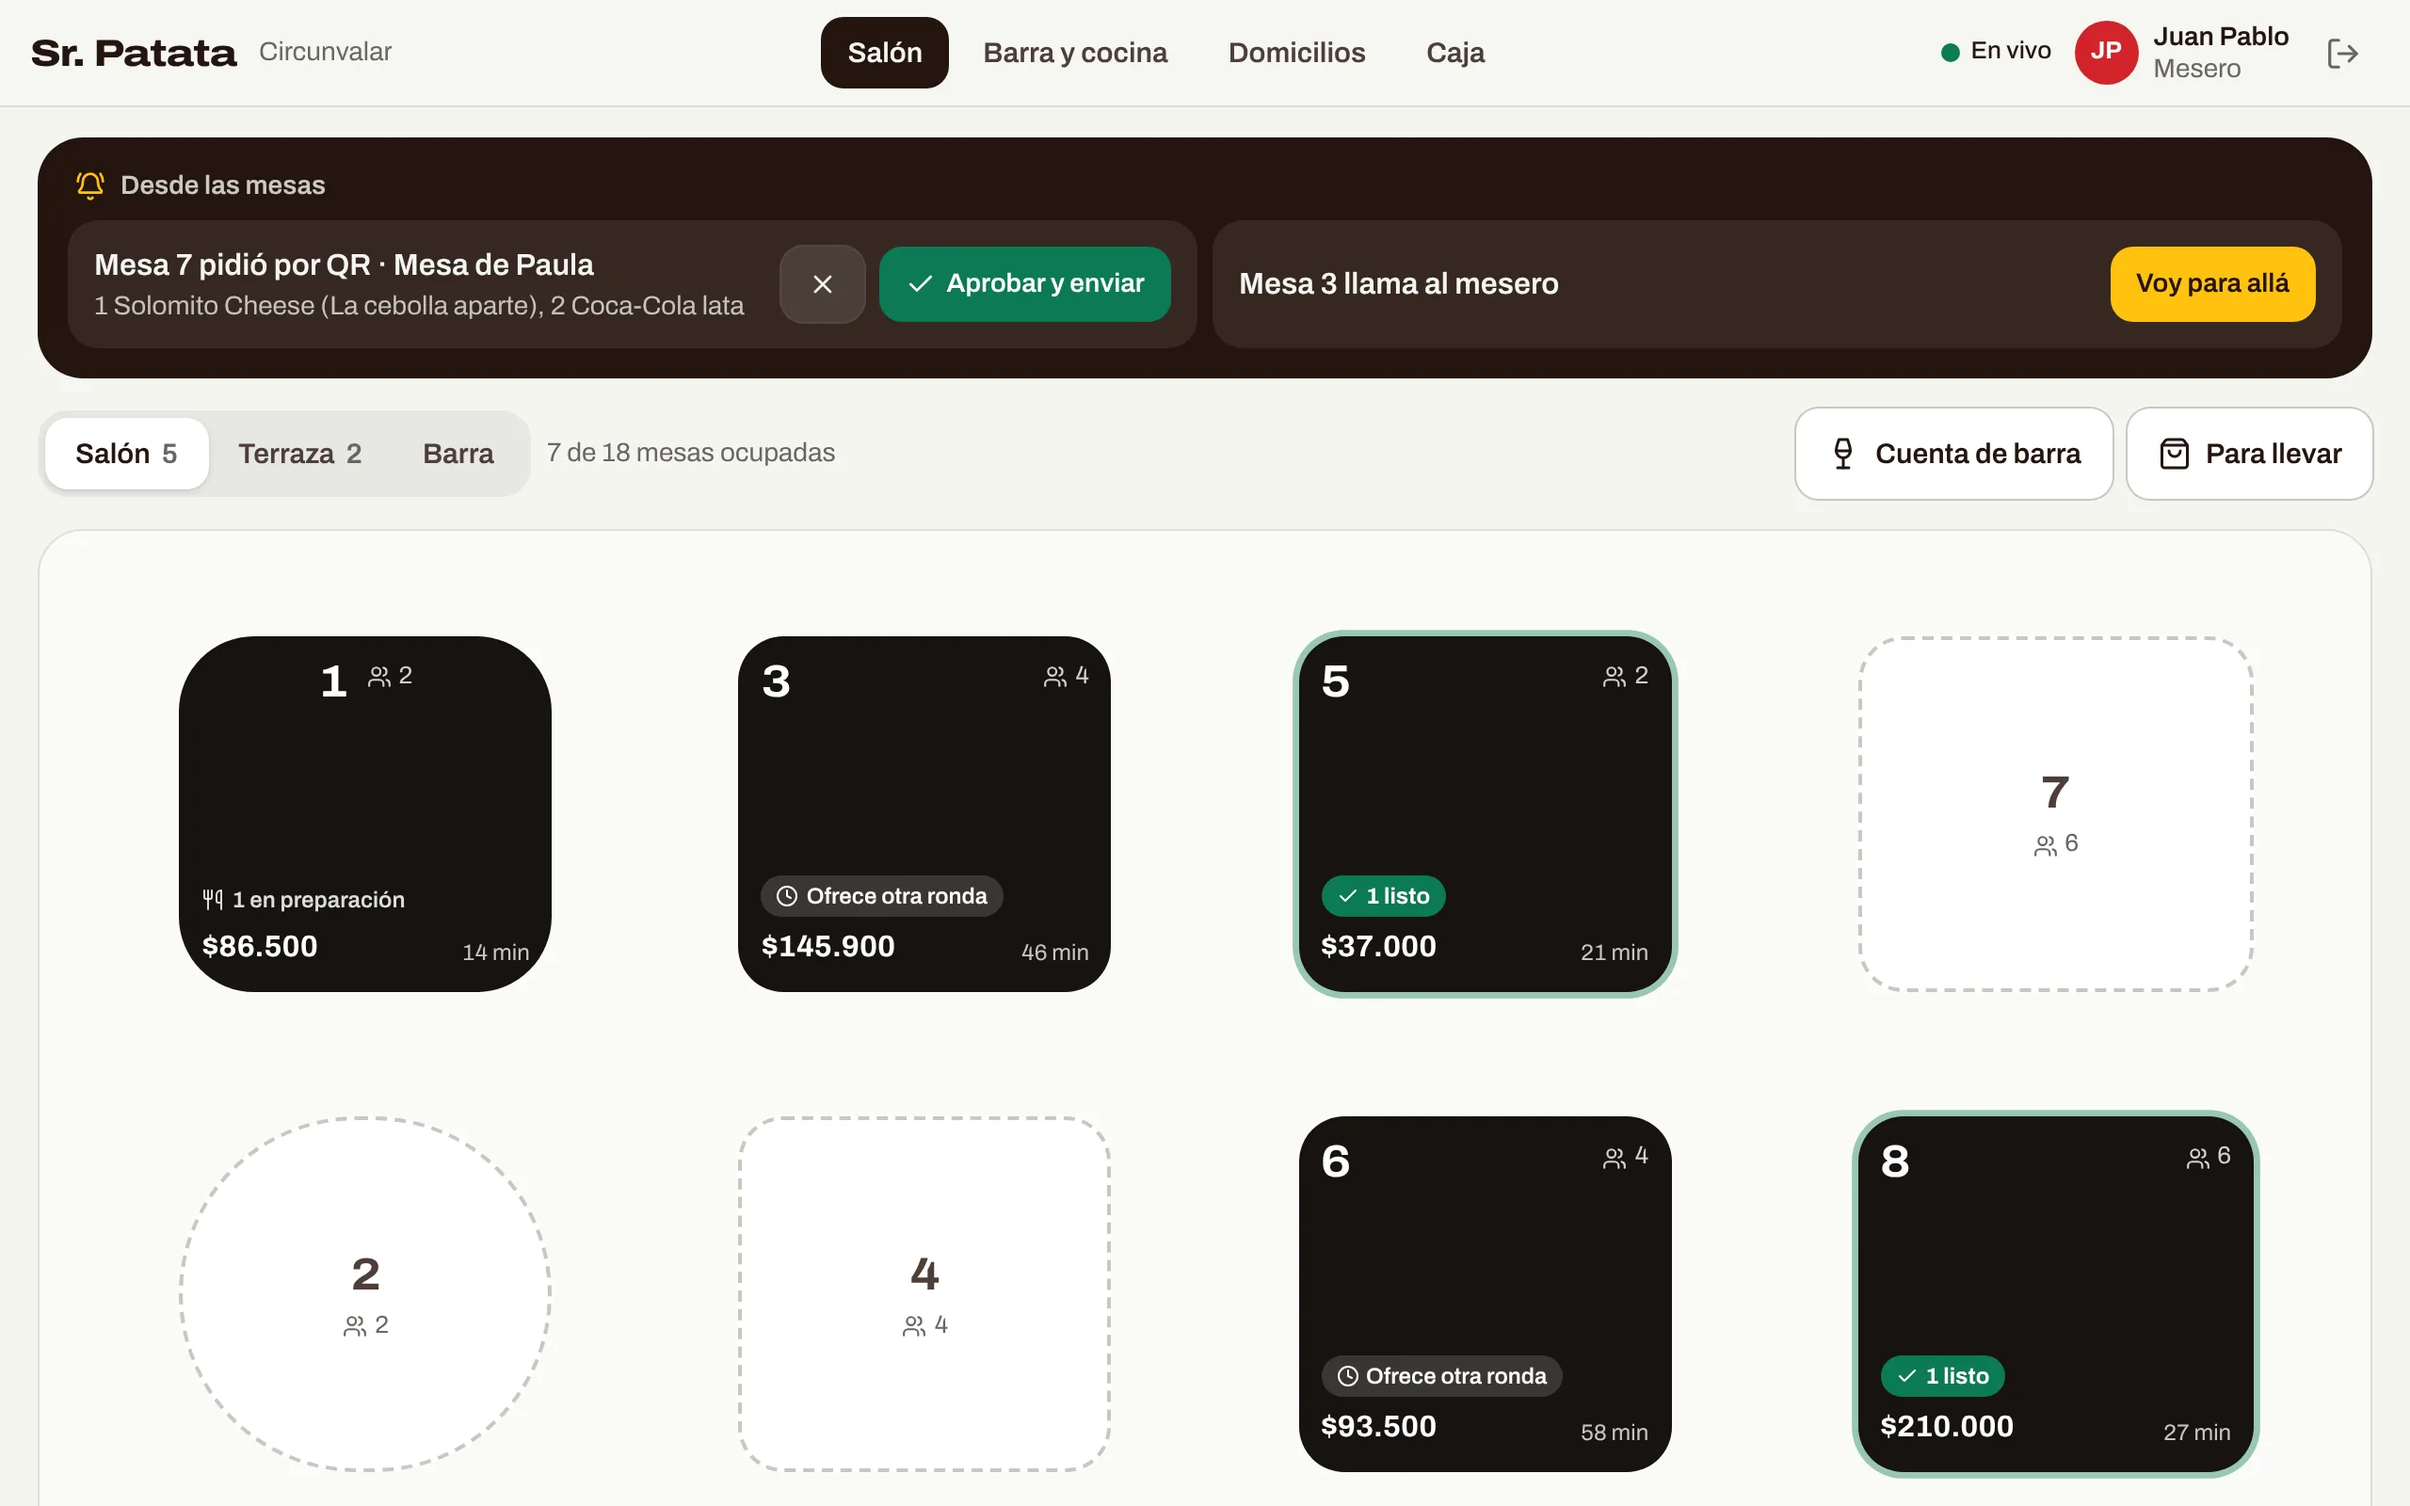
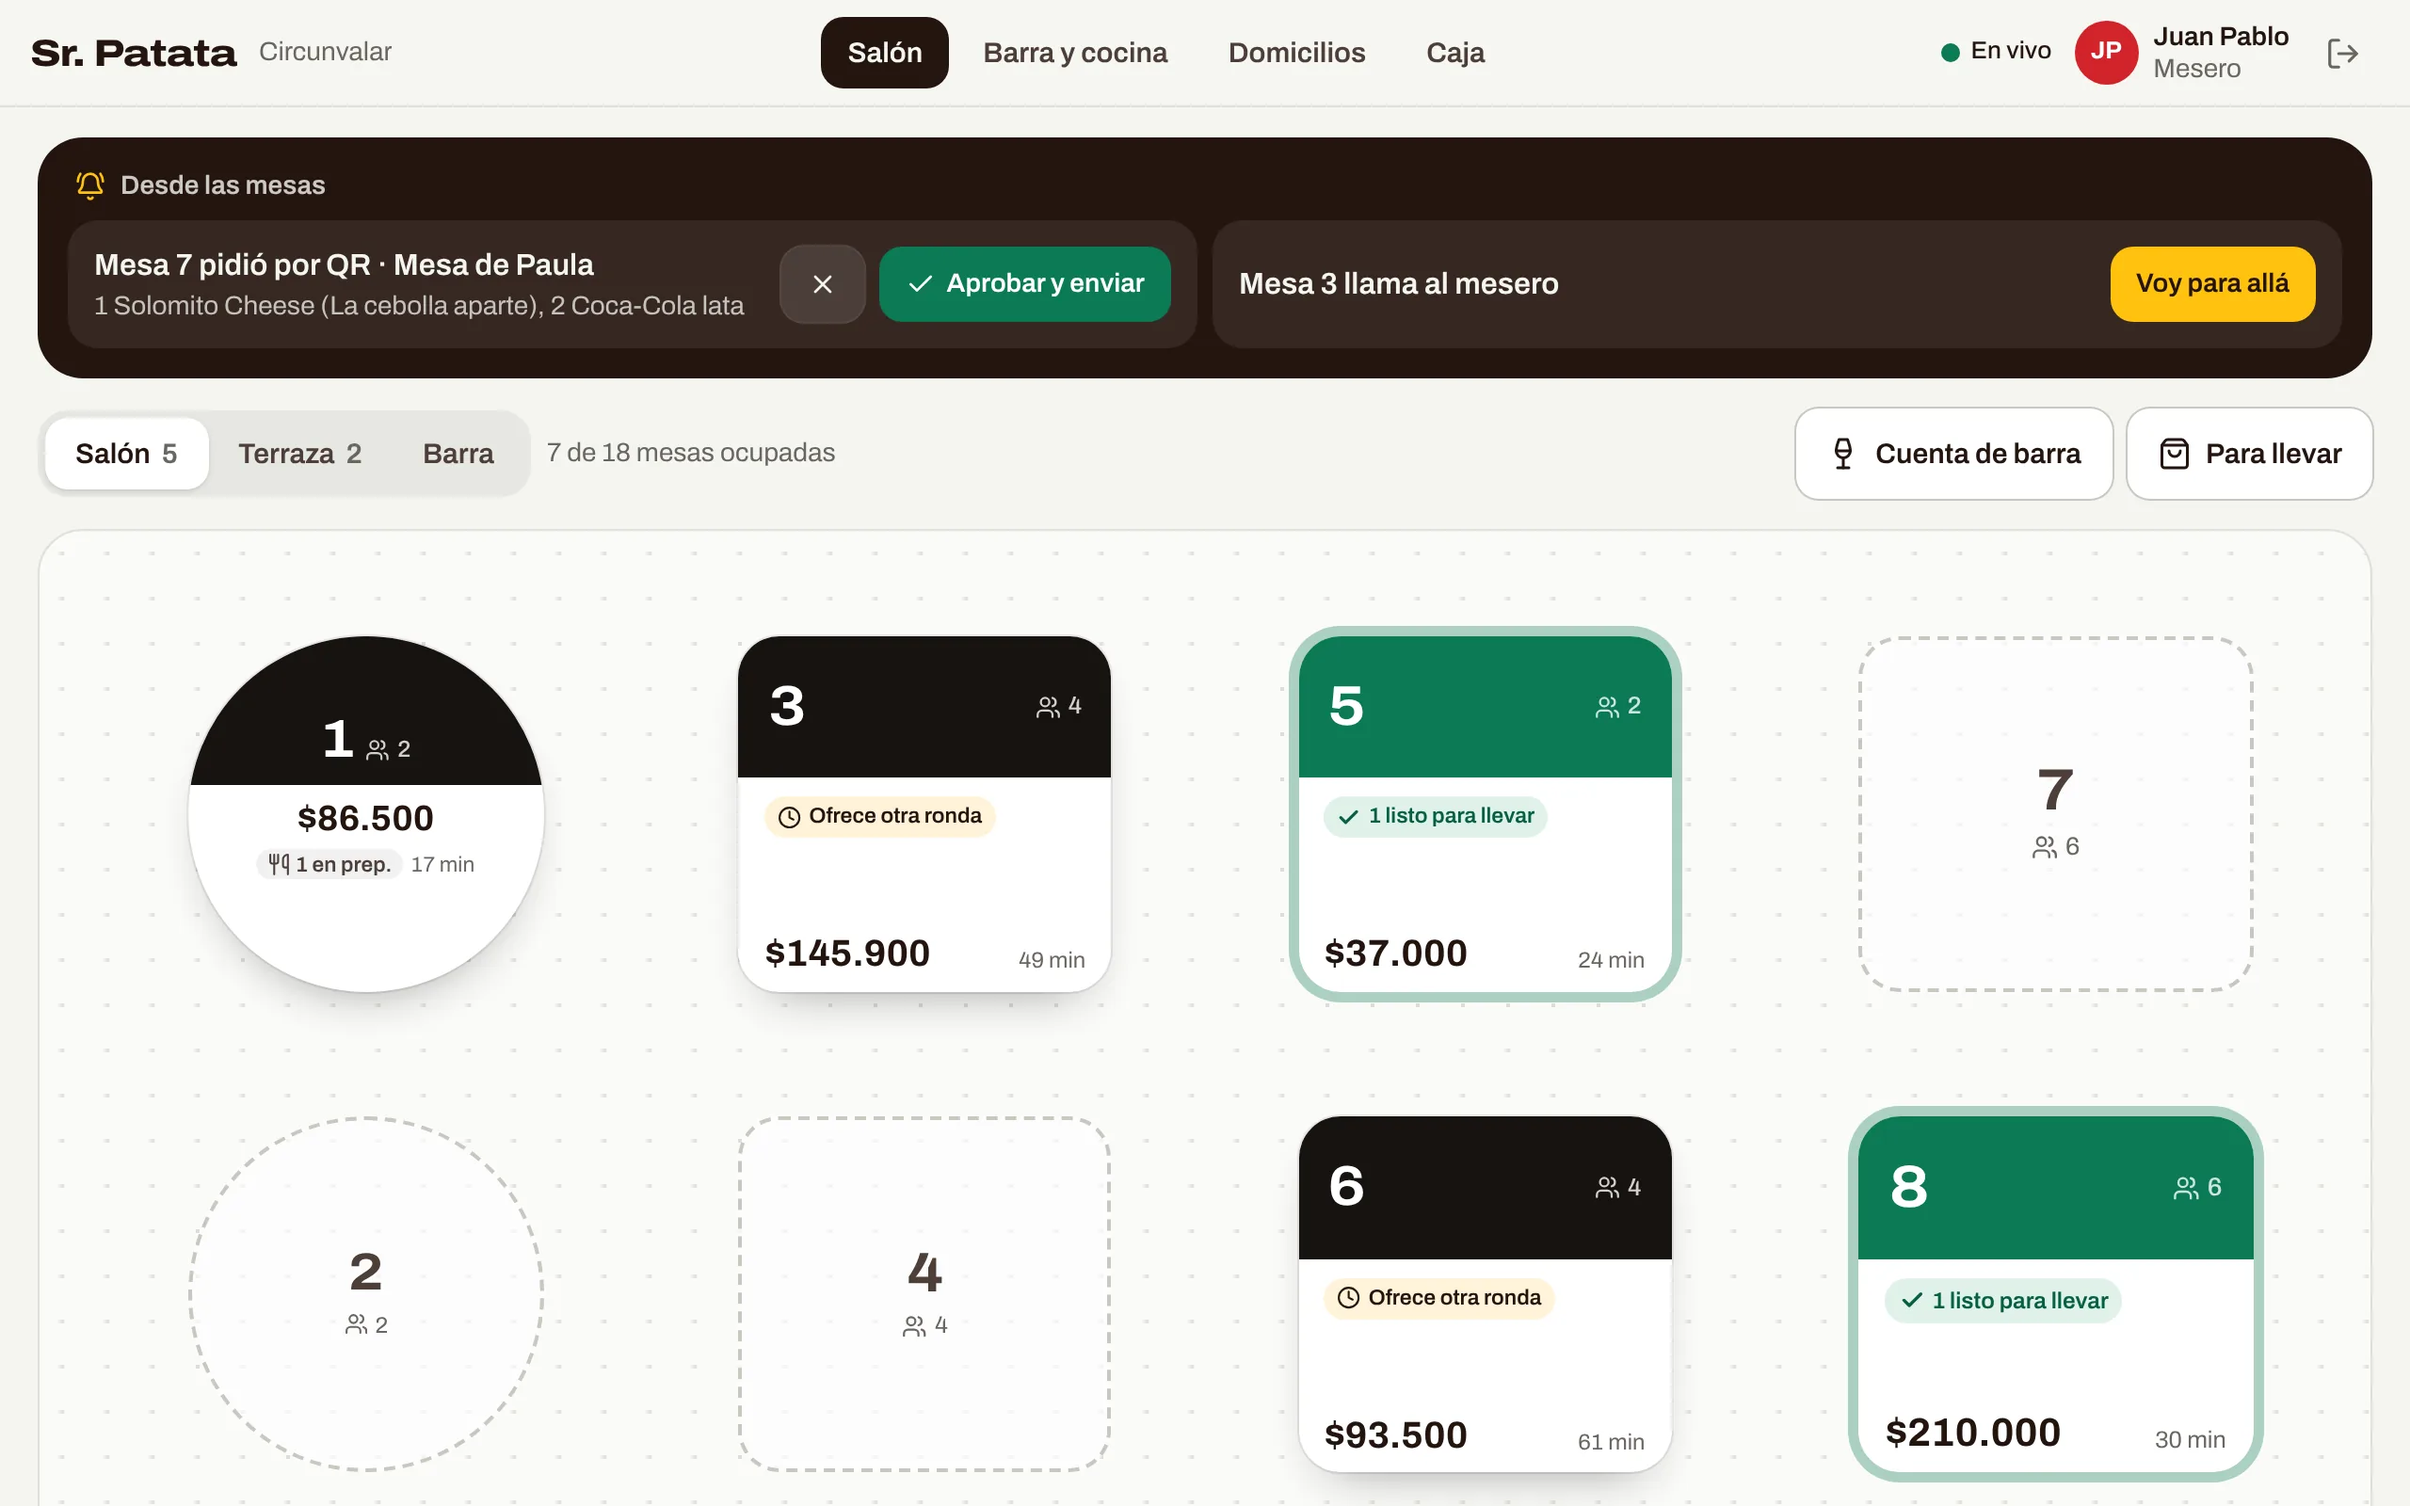
Salón: las mesas ocupadas como comandas en lugar de bloques negros
Cada mesa ocupada es una tarjeta blanca con una franja de estado que se lee de lejos: el color
del local, amarilla si pidió la cuenta y verde si hay algo listo para llevar. El texto crece con
la mesa (unidades del contenedor), así no sobra espacio en pantallas anchas ni se corta en tablets
en vertical. Las mesas redondas quedan redondas, con todo centrado y el estado en corto. Plano con
cuadrícula de puntos y captura del salón de la portada tomada de nuevo.

Claude-Session: https://claude.ai/code/session_01TVsXieNy3EFWDWAhgHViRk

diff --git a/components/salon.tsx b/components/salon.tsx
@@ -81,7 +81,12 @@ export function Salon({ floor }: { floor: Floor }) {
 
       <div className="flex flex-col">
         {/* Plano en tablet y computador; lista en el teléfono */}
-        <div className={cn("relative mt-4 hidden rounded-3xl border border-linea bg-papel/60 sm:block", counter ? "order-2 aspect-[16/4]" : "aspect-[16/7.2]")}>
+        <div
+          className={cn(
+            "relative mt-4 hidden rounded-3xl border border-linea bg-papel/60 bg-[radial-gradient(circle,var(--color-linea)_1.2px,transparent_1.2px)] bg-[size:24px_24px] sm:block",
+            counter ? "order-2 aspect-[16/4]" : "aspect-[16/7.2]",
+          )}
+        >
           {tables.map((t) => (
             <div
               key={t.id}
@@ -93,7 +98,7 @@ export function Salon({ floor }: { floor: Floor }) {
                 height: "34%",
               }}
             >
-              <TableTile table={t} onOpen={() => (setOpening(t), setGuests(Math.min(t.seats, 2)))} />
+              <TableTile plan table={t} onOpen={() => (setOpening(t), setGuests(Math.min(t.seats, 2)))} />
             </div>
           ))}
         </div>
@@ -188,66 +193,92 @@ export function Salon({ floor }: { floor: Floor }) {
   );
 }
 
-function TableTile({ table, onOpen }: { table: TableView; onOpen: () => void }) {
+/**
+ * Una mesa en el plano o en la lista del teléfono. Libre: contorno punteado. Ocupada: tarjeta tipo comanda con una
+ * franja que dice el estado de lejos (color del local; amarilla si pidió la cuenta; verde si hay algo listo para llevar).
+ * El texto crece con la mesa (unidades del contenedor) para que no sobre espacio en pantallas grandes ni falte en tablets.
+ */
+function TableTile({ table, onOpen, plan = false }: { table: TableView; onOpen: () => void; plan?: boolean }) {
   const c = table.check;
+  const round = plan && table.shape === "round";
+  const shape = round ? "aspect-square h-full max-w-full mx-auto rounded-full" : "h-full w-full rounded-[22px]";
   if (!c)
     return (
       <button
         onClick={onOpen}
         className={cn(
-          "flex h-full w-full flex-col items-center justify-center border-2 border-dashed border-linea-2 bg-papel text-tinto-2 transition hover:border-tinto hover:text-tinto",
-          table.shape === "round" ? "rounded-[999px]" : "rounded-3xl",
+          "@container flex flex-col items-center justify-center gap-1 border-2 border-dashed border-linea-2 bg-papel/60 text-tinto-2 transition hover:border-balcon hover:bg-papel hover:text-tinto",
+          shape,
         )}
         aria-label={`Mesa ${table.name} libre, ${table.seats} puestos`}
       >
-        <span className="text-2xl font-bold [font-stretch:110%]">{table.name}</span>
-        <span className="mt-0.5 inline-flex items-center gap-1 text-[13px] text-humo">
-          <Users size={13} /> {table.seats}
+        <span className="text-[clamp(1.2rem,15cqw,2.25rem)] font-bold leading-none [font-stretch:110%]">{table.name}</span>
+        <span className="inline-flex items-center gap-1 text-[clamp(0.72rem,6.5cqw,0.9rem)] text-humo">
+          <Users className="size-[1.05em]" /> {table.seats}
         </span>
       </button>
     );
   const bill = c.status === "bill";
   const idle = !bill && c.minutesIdle >= IDLE_MINUTES && c.inStation === 0;
+  const band = c.ready ? "bg-puerta text-white" : bill ? "bg-fachada text-tinto" : "bg-balcon text-white";
+  const chip = c.ready
+    ? { cls: "bg-puerta-soft text-puerta-2", icon: <Check className="size-[1.1em]" strokeWidth={3} />, long: `${c.ready} listo${c.ready > 1 ? "s" : ""} para llevar`, short: `${c.ready} listo${c.ready > 1 ? "s" : ""}`, count: String(c.ready) }
+    : bill
+      ? { cls: "bg-fachada-soft text-tinto", icon: <Receipt className="size-[1.1em]" />, long: "Pidió la cuenta", short: "Cuenta", count: "" }
+      : idle
+        ? { cls: "bg-fachada-soft text-tinto", icon: <Clock className="size-[1.1em]" />, long: "Ofrece otra ronda", short: "Otra ronda", count: "" }
+        : c.inStation
+          ? { cls: "bg-tinto/6 text-tinto-2", icon: <Utensils className="size-[1.1em]" />, long: `${c.inStation} en preparación`, short: `${c.inStation} en prep.`, count: String(c.inStation) }
+          : null;
   return (
     <Link
       href={`/cuenta/${c.id}`}
       className={cn(
-        "relative flex h-full w-full flex-col justify-between p-3 text-left transition",
-        table.shape === "round" ? "rounded-[40px] items-center text-center" : "rounded-3xl",
-        bill ? "bg-fachada text-tinto" : "bg-balcon text-white hover:bg-balcon-2",
-        c.ready > 0 && "ready-pulse ring-4 ring-puerta",
+        "@container relative flex flex-col overflow-hidden bg-papel text-tinto shadow-[0_12px_28px_-16px_rgba(23,19,16,0.5)] ring-1 ring-black/8 transition hover:-translate-y-0.5",
+        shape,
+        round && "text-center",
+        c.ready > 0 && "ready-pulse ring-2 ring-puerta",
       )}
       aria-label={`Mesa ${table.name}, ${bill ? "pidió la cuenta" : "ocupada"}, ${cop(c.total)}`}
     >
-      <span className={cn("flex w-full items-start gap-1", table.shape === "round" ? "justify-center gap-2.5" : "justify-between")}>
-        <span className="text-2xl font-bold leading-none [font-stretch:110%]">{table.name}</span>
-        <span className={cn("inline-flex items-center gap-1 text-[13px]", bill ? "text-tinto/70" : "text-white/80")}>
-          <Users size={13} /> {c.guests}
+      <span className={cn("flex shrink-0 items-center gap-1.5 px-[8cqw]", band, round ? "h-[42%] items-end justify-center pb-[5cqw]" : "h-[40%] justify-between")}>
+        <span className="text-[clamp(1.2rem,15cqw,2.25rem)] font-bold leading-none [font-stretch:110%]">{table.name}</span>
+        <span className="inline-flex items-center gap-1 text-[clamp(0.72rem,6.5cqw,0.9rem)] font-medium opacity-80">
+          <Users className="size-[1.05em]" /> {c.guests}
         </span>
       </span>
-      <span className="w-full">
-        {c.ready ? (
-          <span className="mb-1 inline-flex items-center gap-1 rounded-full bg-puerta px-2 py-0.5 text-[12px] font-bold text-white">
-            <Check size={12} /> {c.ready} listo{c.ready > 1 ? "s" : ""}
+      {round ? (
+        // En la mesa redonda cabe menos: el total y una línea con el estado en corto y los minutos
+        <span className="flex min-h-0 flex-1 flex-col items-center gap-[3cqw] px-[10cqw] pt-[5cqw]">
+          <Money value={c.total} className="text-[clamp(0.9rem,10cqw,1.45rem)] font-bold leading-none" />
+          <span className="inline-flex items-center gap-1 whitespace-nowrap text-[clamp(0.68rem,6cqw,0.85rem)] leading-none text-humo tnum">
+            {chip ? (
+              <span className={cn("inline-flex items-center gap-0.5 rounded-full px-1.5 py-0.5 font-semibold", chip.cls)} title={chip.long}>
+                {chip.icon}
+                <span className="hidden @min-[11rem]:inline">{chip.short}</span>
+                <span className="@min-[11rem]:hidden">{chip.count}</span>
+              </span>
+            ) : null}
+            {c.minutesOpen} min
           </span>
-        ) : bill ? (
-          <span className="mb-1 inline-flex items-center gap-1 text-[13px] font-bold">
-            <Receipt size={13} /> Pidió la cuenta
-          </span>
-        ) : idle ? (
-          <span className="mb-1 inline-flex items-center gap-1 rounded-full bg-white/15 px-2 py-0.5 text-[12px] font-semibold">
-            <Clock size={12} /> Ofrece otra ronda
-          </span>
-        ) : c.inStation ? (
-          <span className="mb-1 inline-flex items-center gap-1 text-[12px] font-semibold text-white/85">
-            <Utensils size={12} /> {c.inStation} en preparación
-          </span>
-        ) : null}
-        <span className="flex items-end justify-between gap-1">
-          <Money value={c.total} className="text-base font-bold" />
-          <span className={cn("text-[12px] tnum", bill ? "text-tinto/70" : "text-white/75")}>{c.minutesOpen} min</span>
         </span>
-      </span>
+      ) : (
+        <span className="flex min-h-0 flex-1 flex-col justify-between px-[7cqw] py-[5cqw]">
+          {chip ? (
+            <span className={cn("inline-flex max-w-full items-center gap-1 self-start rounded-full px-[0.6em] py-[0.2em] text-[clamp(0.68rem,5.8cqw,0.85rem)] font-semibold", chip.cls)}>
+              {chip.icon}
+              <span className="hidden truncate @min-[10rem]:inline">{chip.long}</span>
+              <span className="truncate @min-[10rem]:hidden">{chip.short}</span>
+            </span>
+          ) : (
+            <span />
+          )}
+          <span className="flex flex-wrap items-end justify-between gap-x-2 gap-y-0.5">
+            <Money value={c.total} className="text-[clamp(0.9rem,10cqw,1.45rem)] font-bold leading-none" />
+            <span className="whitespace-nowrap text-[clamp(0.7rem,6cqw,0.85rem)] leading-none text-humo tnum">{c.minutesOpen} min</span>
+          </span>
+        </span>
+      )}
     </Link>
   );
 }
